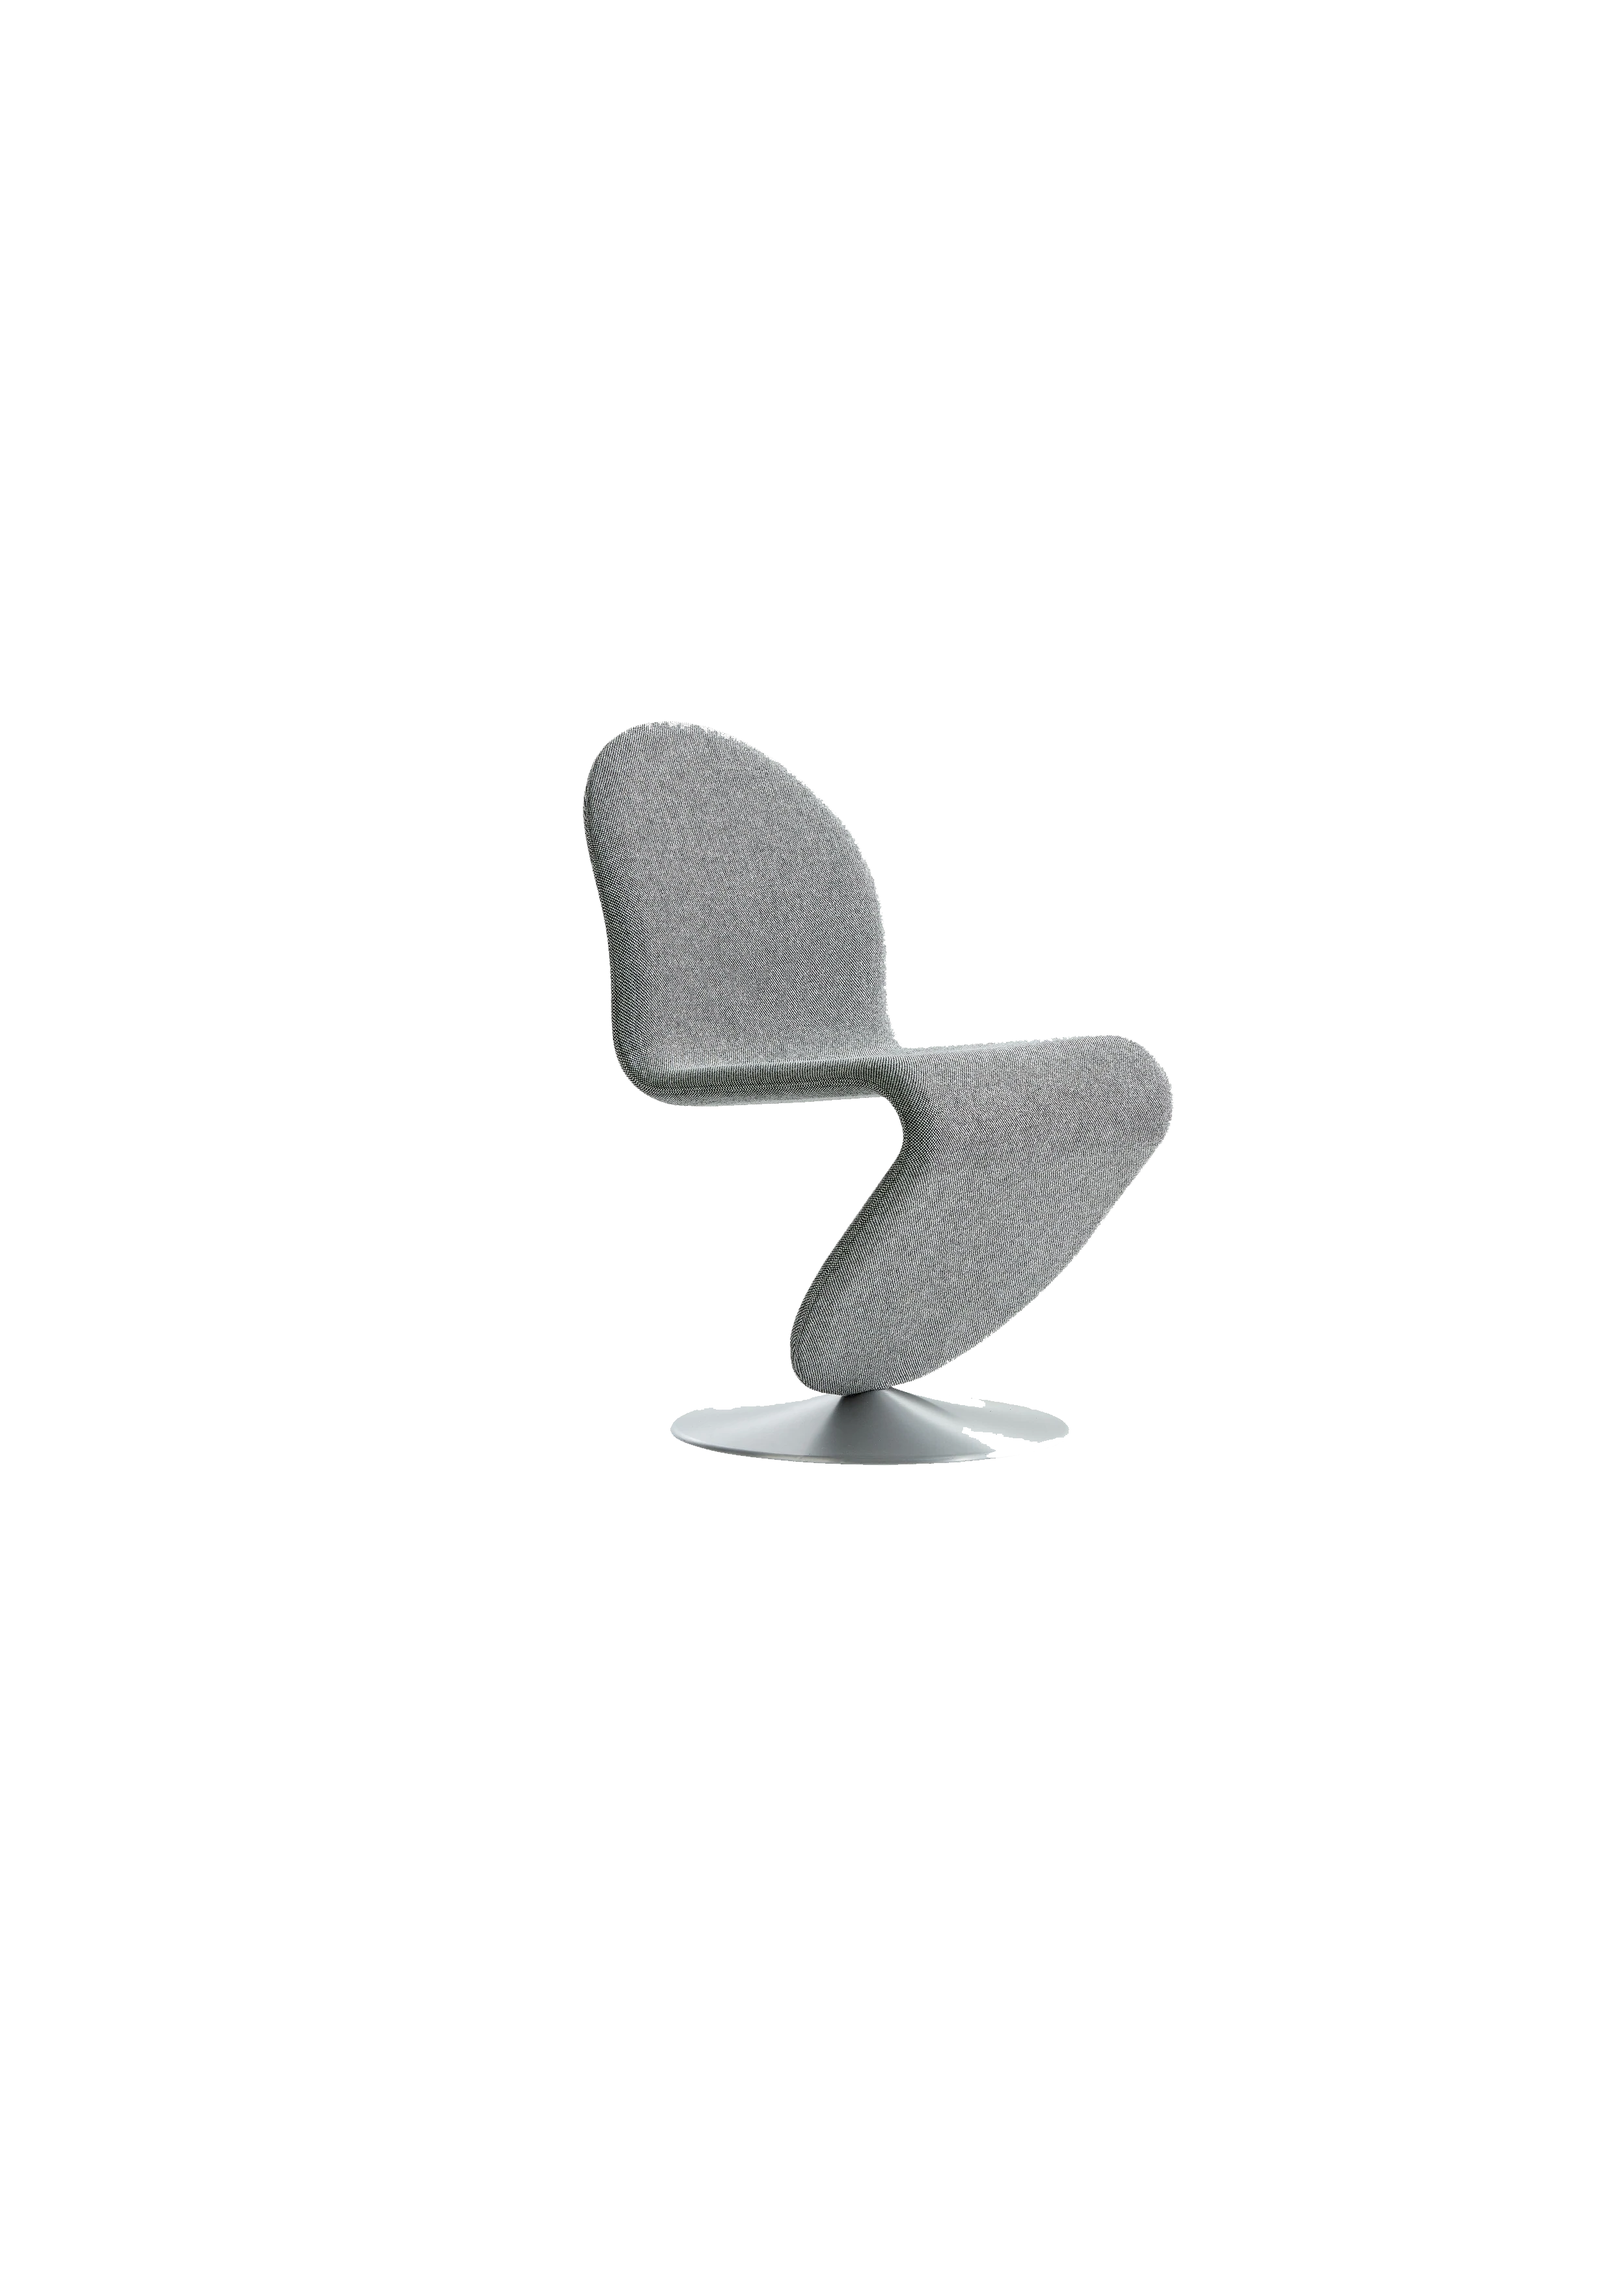
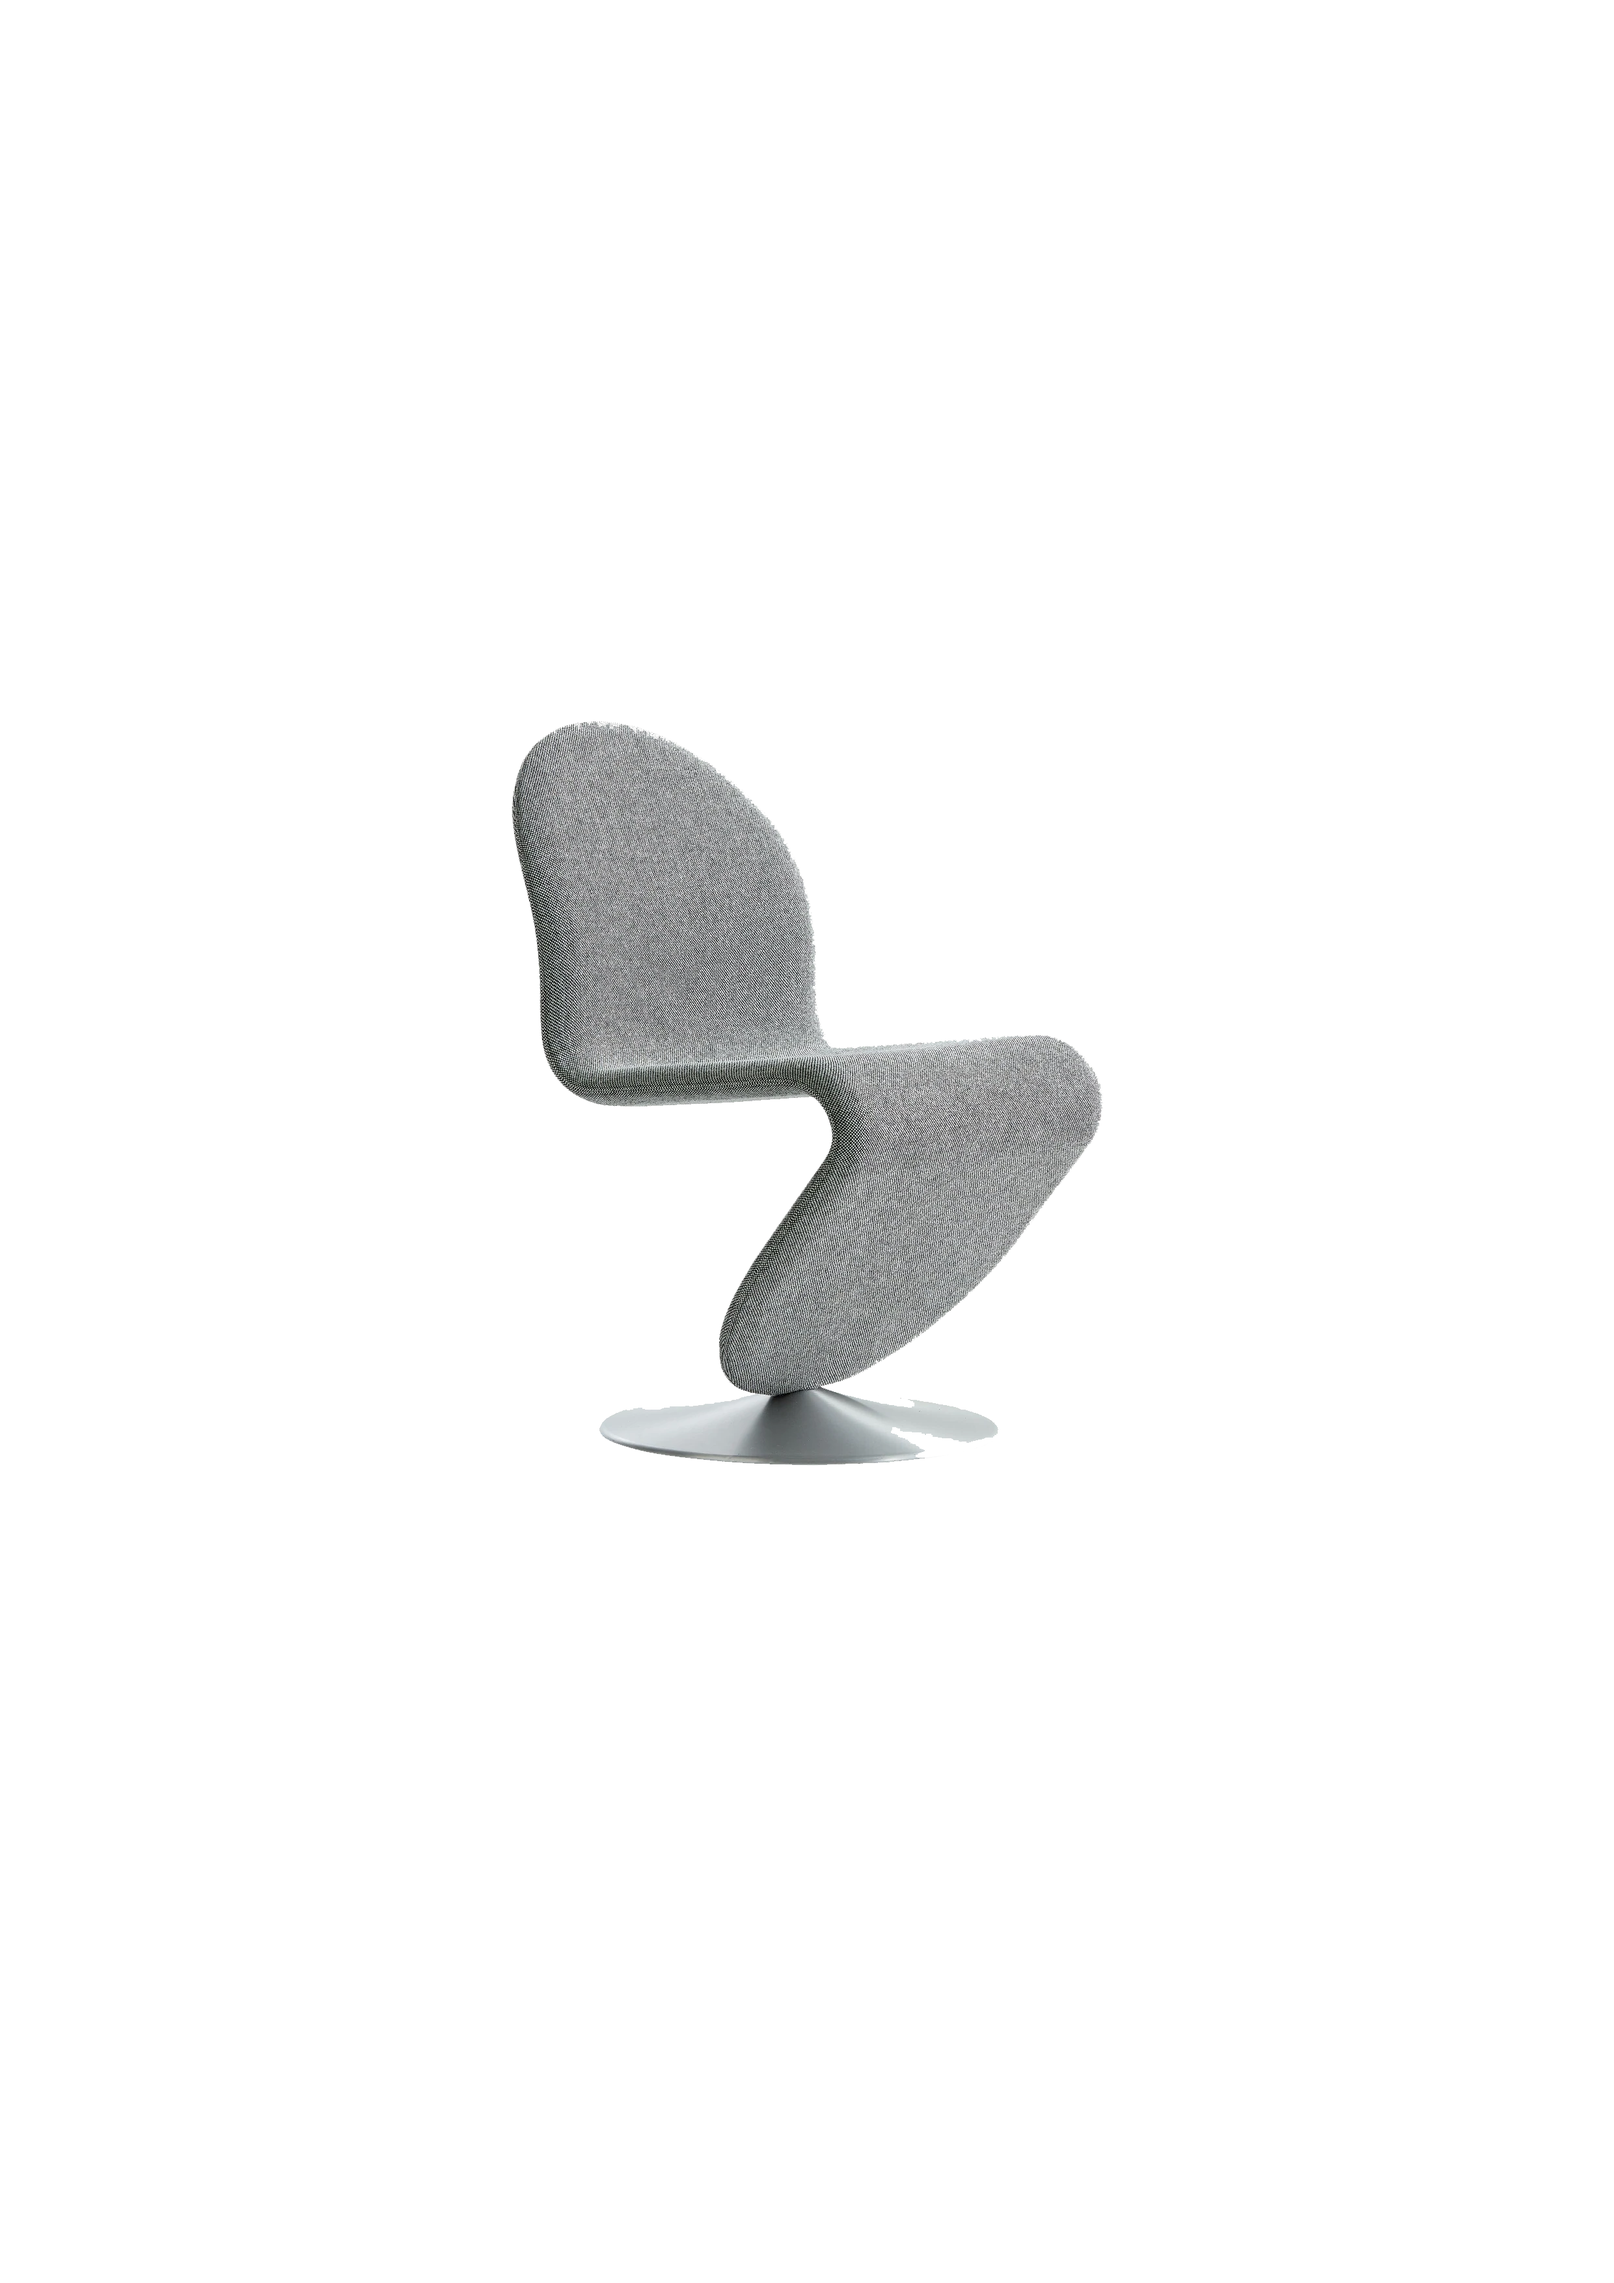
UPDATED images

Changed region(s): [[0.3105, 0.3107, 0.7452, 0.6525]]

diff --git a/KEMPER FURNITURE/index.html b/KEMPER FURNITURE/index.html
@@ -46,8 +46,8 @@
        <div style = "position:absolute; left:220px; top:-50px; z-index: -1;">
        <img src="chair.png" alt="chairleft" width="700px" height="950px"> 
        
-       <div style = "position:absolute; left:250px; top:18px; z-index: -1;">
-        <img src="CHAIR_FLIP.png" alt="chairleft" width="650px" height="900px">
+       <div style = "position:absolute; left:280px; top:0px; z-index: -1;">
+        <img src="CHAIR_FLIP.png" alt="chairleft" width="700px" height="950px">
 
 
         <span>
